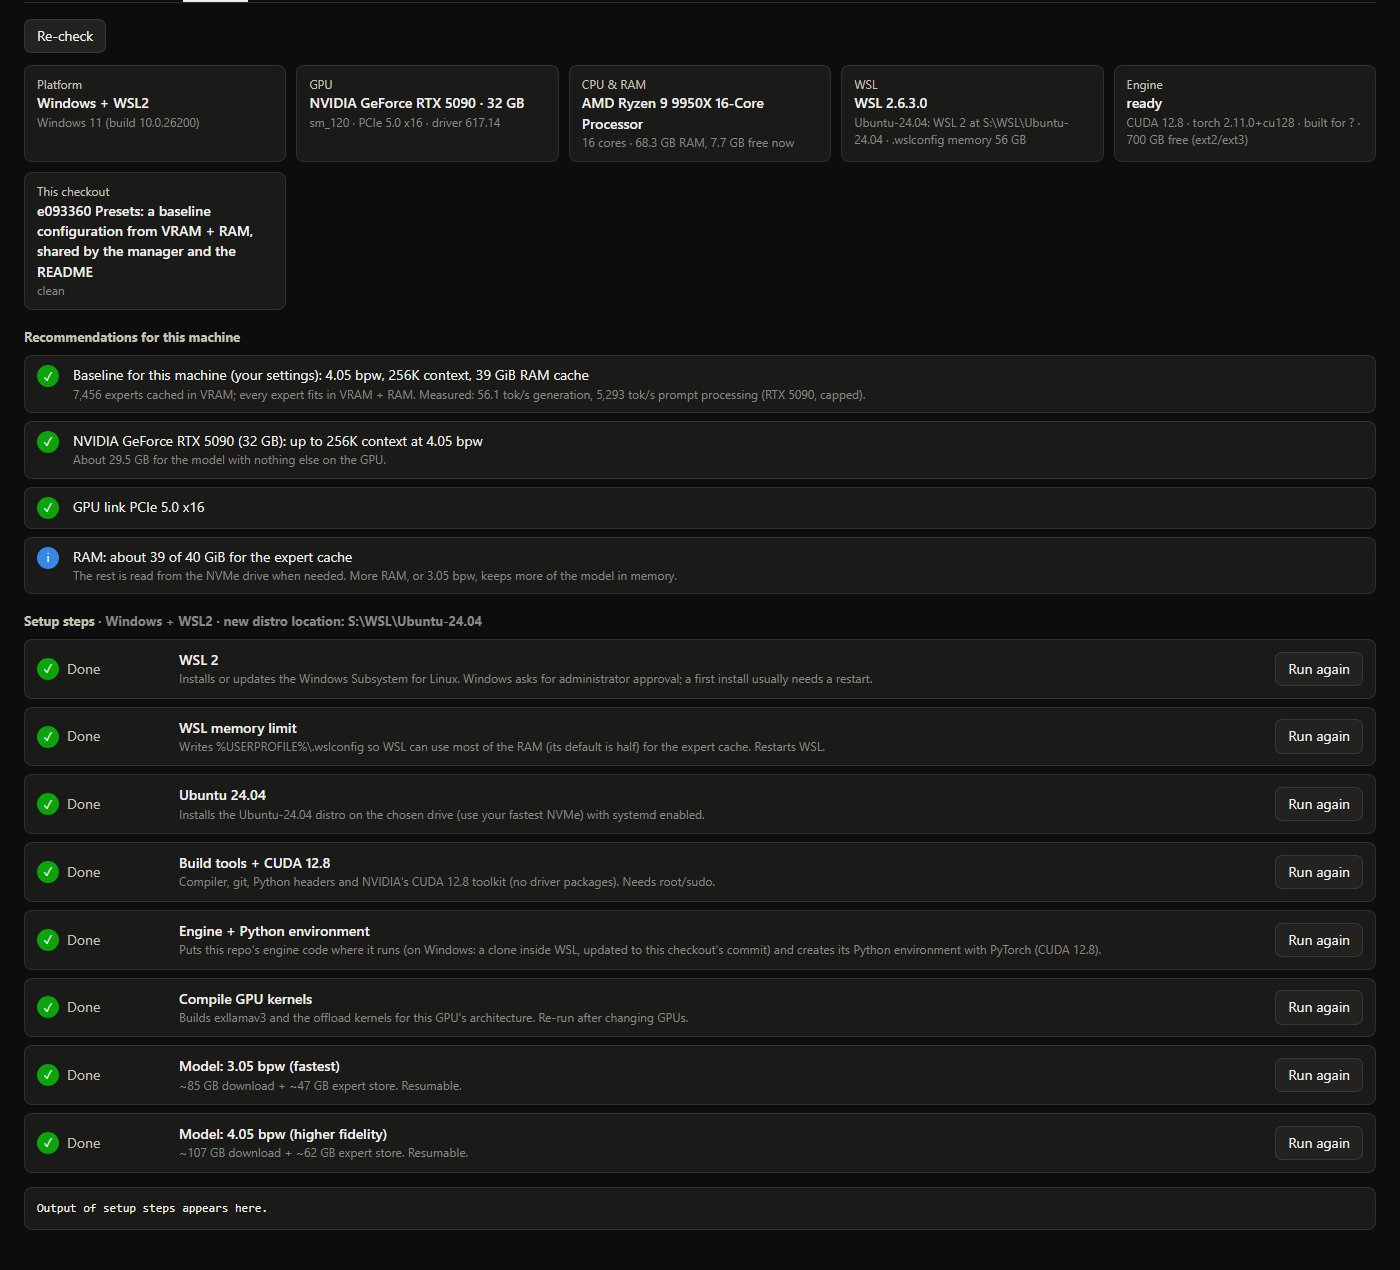
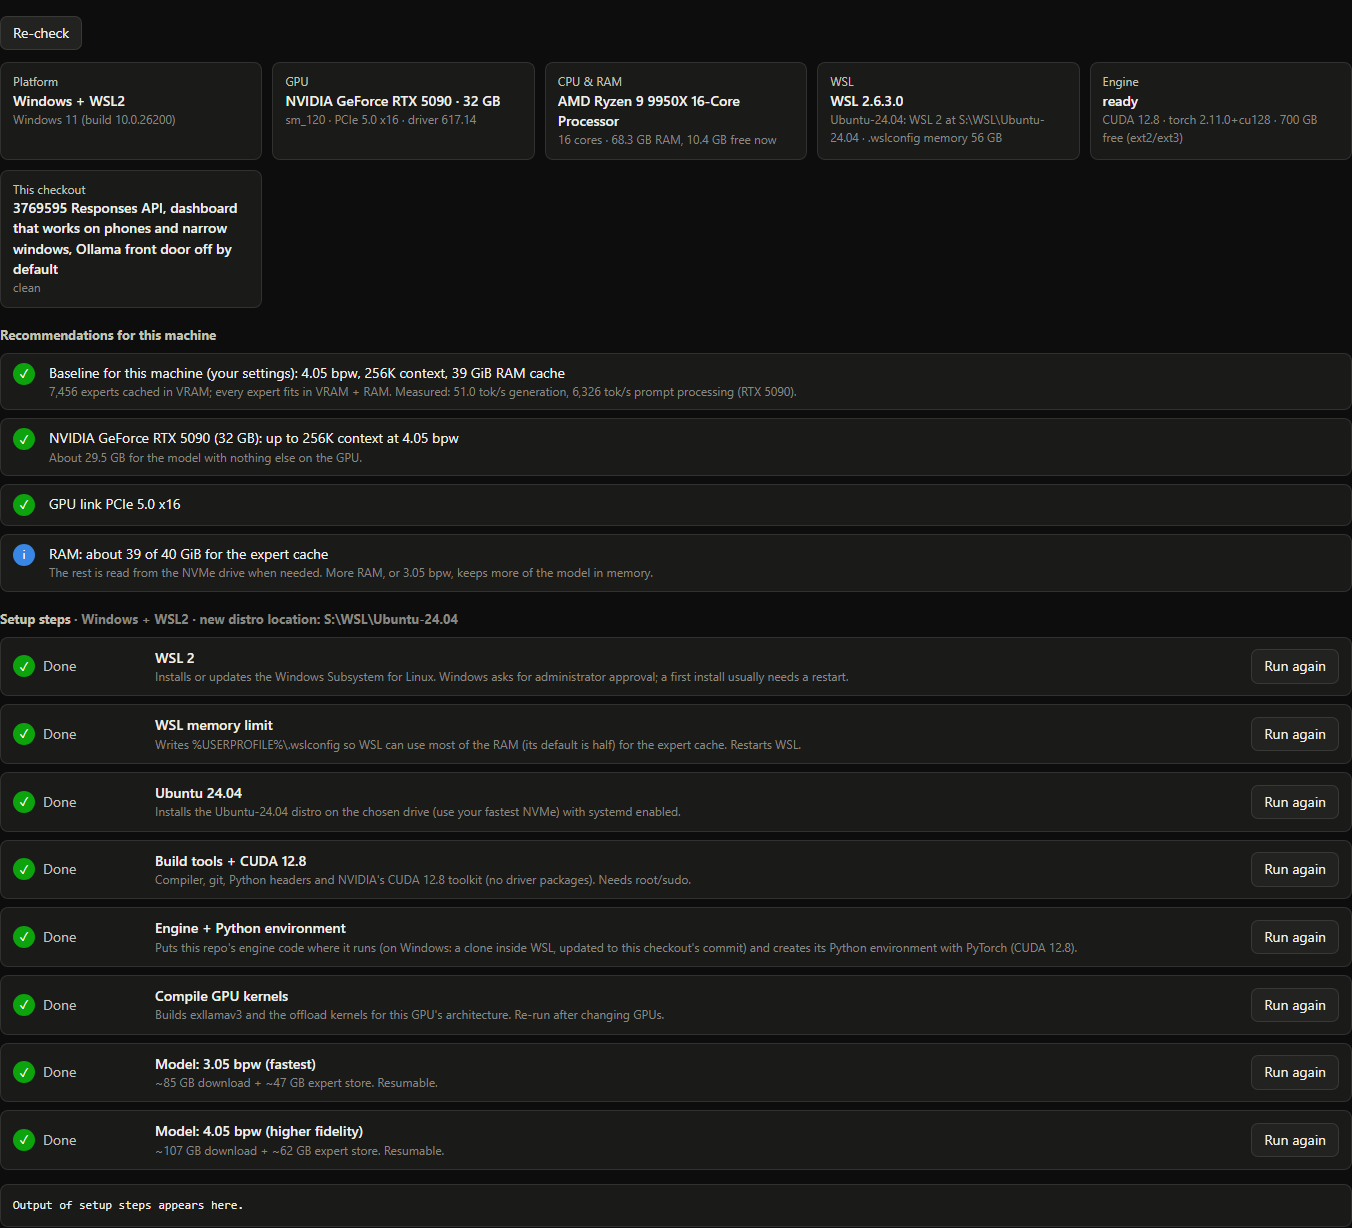
Fresh README screenshots; API test status; hide an unknown build architecture
- Screenshots of the current dashboard: no Ollama line, live speed, the 2 x 2 settings, the Setup tab panel.
- README: the OpenAI API (Chat Completions and Responses) in "Tested so far", and both APIs in the quick start.
- The Engine card and `qwenflash detect` leave out "built for ?" when the build architecture isn't recorded.

diff --git a/qwenflash/ui/index.html b/qwenflash/ui/index.html
@@ -561,7 +561,8 @@ async function loadHardware(refresh) {
   if (g) F.push(["GPU", `${g.name} · ${(g.vram_total / 2 ** 30).toFixed(0)} GB`, `sm_${(g.compute_capability || "?").replace(".", "")} · PCIe ${g.pcie_gen_max}.0 x${g.pcie_width_max} · driver ${hw.driver.version || "?"}${hw.gpus.length > 1 ? ` · ${hw.gpus.length} GPUs` : ""}`]);
   F.push(["CPU & RAM", `${hw.cpu.name || "?"}`, `${hw.cpu.cores} cores · ${hw.ram.total_gb} GB RAM, ${hw.ram.avail_gb} GB free now`]);
   if (w) F.push(["WSL", w.installed ? `WSL ${w.version || ""}` : "not installed", `${w.distro}: ${w.distro_present ? "WSL " + w.distro_wsl_version + (w.distro_path ? " at " + w.distro_path : "") : "not installed"} · .wslconfig memory ${wc.memory_gb ? wc.memory_gb + " GB" : "default (half the RAM)"}`]);
-  if (e && e.driver) F.push(["Engine", e.engine === "1" ? "ready" : "not set up", `CUDA ${e.cuda_version || "-"} · torch ${e.torch || "-"} · built for ${e.build_arch || "?"} · ${e.disk_free_gb || "?"} GB free (${e.fs || "?"})`]);
+  if (e && e.driver) F.push(["Engine", e.engine === "1" ? "ready" : "not set up", [`CUDA ${e.cuda_version || "-"}`, `torch ${e.torch || "-"}`, e.build_arch && `built for ${e.build_arch}`,
+    e.disk_free_gb && `${e.disk_free_gb} GB free` + (e.fs ? ` (${e.fs})` : "")].filter(Boolean).join(" · ")]);
   if (hw.repo && hw.repo.head) F.push(["This checkout", hw.repo.subject || hw.repo.head.slice(0, 7), hw.repo.dirty ? "uncommitted changes (the engine gets committed code only)" : "clean"]);
   $("facts").innerHTML = F.map(([k, v, n]) => `<div><div class="k">${esc(k)}</div><div class="v">${esc(v)}</div><div class="n">${esc(n || "")}</div></div>`).join("");
   const LV = { ok: ["good", "✓"], info: ["accent", "i"], warn: ["warning", "!"], error: ["critical", "✕"] };

diff --git a/qwenflash/__main__.py b/qwenflash/__main__.py
@@ -122,7 +122,7 @@ def cmd_detect(cfg, a):
     e = hw.get("engine") or {}
     if e:
         print(f"engine   {'ready' if e.get('engine') == '1' else 'not set up'} at {cfg['repo_dir'] or 'this checkout'}; "
-              f"CUDA {e.get('cuda_version')}, torch {e.get('torch')}, built for {e.get('build_arch') or '?'}; "
+              f"CUDA {e.get('cuda_version')}, torch {e.get('torch')}{', built for ' + e['build_arch'] if e.get('build_arch') else ''}; "
               f"models: 3.05 {'yes' if e.get('m305') == '1' else 'no'}, 4.05 {'yes' if e.get('m405') == '1' else 'no'}")
     print("recommendations:")
     print_recommendations(hw["recommendations"])

diff --git a/README.md b/README.md
@@ -137,6 +137,9 @@ so. Point any OpenAI-compatible client (Pi, OpenCode, Claude Code, ...) at:
 - **API key:** any non-empty string
 - **Context window:** `262144`, or the context the preset picked
 
+Both OpenAI APIs work: Chat Completions (`/v1/chat/completions`) and the newer Responses API (`/v1/responses`). See
+[docs/api.md](docs/api.md).
+
 ```bash
 curl http://127.0.0.1:30000/v1/chat/completions -H "Content-Type: application/json" \
   -d '{"model": "qwen3.8-flash-next", "messages": [{"role": "user", "content": "Hello!"}]}'
@@ -224,6 +227,7 @@ cell gives:
 | | Status | Notes |
 |---|---|---|
 | Windows 11 + WSL2, RTX 5090, 64 GB RAM | ✅ In daily use | Both quants at 256K context. Manager, dashboard, setup steps, auto-switch and the Ollama front door |
+| OpenAI API: Chat Completions and Responses | ✅ Tested | End to end with the official `openai` Python SDK on this PC: chat (plain, streamed, tools) and Responses (plain, streamed, a tool round trip, `previous_response_id`) |
 | Native Linux | 🟡 Partly | Checked inside WSL acting as a Linux host: the manager, dashboard, setup status, first-run preset, and the `systemd --user` backend as a normal user. No model has been started on a bare-metal Linux box yet |
 | Setup on a clean machine | ⚪ Not yet | The steps have run on this PC. A clean Windows or Linux install hasn't been tried |
 | Real 8-24 GB cards | ⚪ Not yet | The numbers below come from the RTX 5090 capped to each card size |
